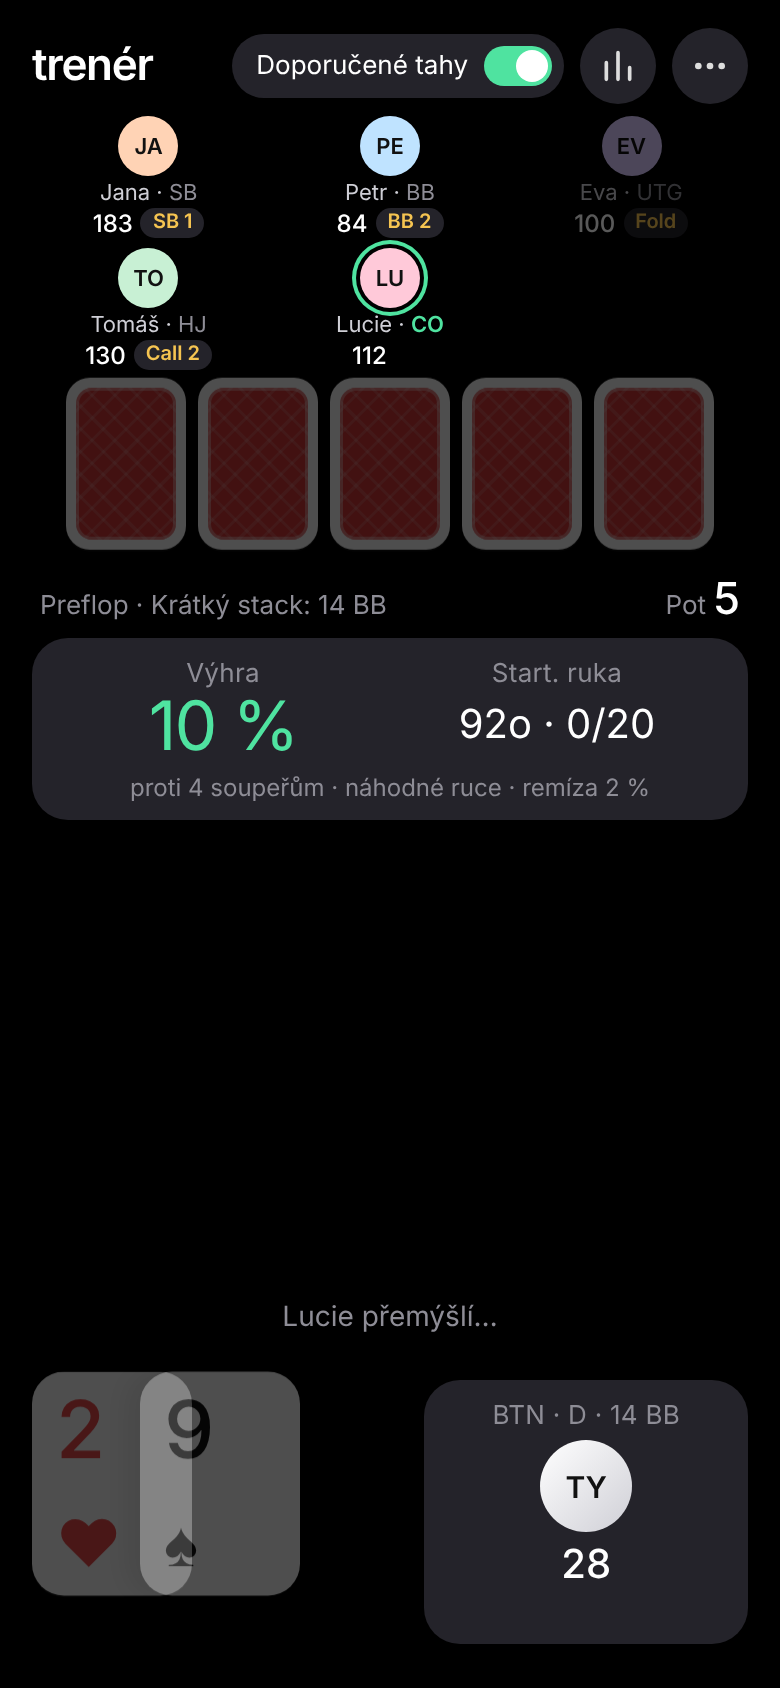
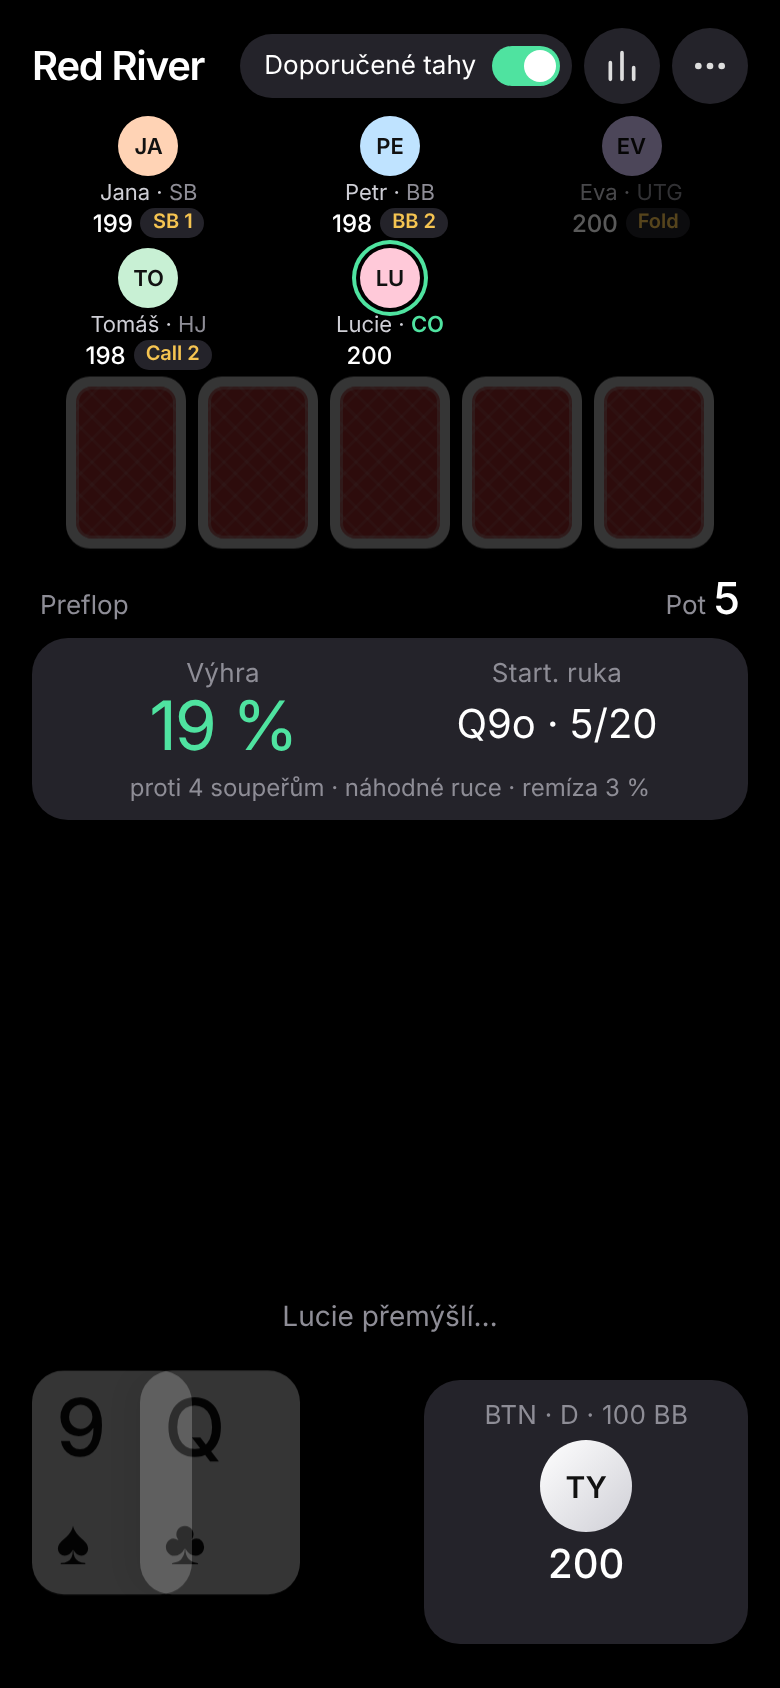
Přejmenování na Red River (manifest, titulek, hlavička, README, NAVRH), SW v6

diff --git a/index.html b/index.html
@@ -4,22 +4,22 @@
 <meta charset="utf-8">
 <meta name="viewport" content="width=device-width, initial-scale=1, viewport-fit=cover">
 <meta name="theme-color" content="#000000">
-<meta name="description" content="Poker trenér – šance na výhru, doporučené tahy a zpětná vazba.">
-<title>Poker trenér</title>
+<meta name="description" content="Red River – poker trenér: šance na výhru, doporučené tahy a zpětná vazba.">
+<title>Red River</title>
 <link rel="manifest" href="manifest.webmanifest">
 <link rel="icon" type="image/png" sizes="32x32" href="icons/favicon-32.png">
 <link rel="apple-touch-icon" href="icons/apple-touch-icon.png">
 <meta name="mobile-web-app-capable" content="yes">
 <meta name="apple-mobile-web-app-capable" content="yes">
 <meta name="apple-mobile-web-app-status-bar-style" content="black-translucent">
-<meta name="apple-mobile-web-app-title" content="Trenér">
+<meta name="apple-mobile-web-app-title" content="Red River">
 <meta name="format-detection" content="telephone=no">
 <link rel="stylesheet" href="style.css">
 </head>
 <body>
 <div class="app" id="app">
   <header class="top">
-    <div class="brand">trenér</div>
+    <div class="brand">Red River</div>
     <label class="switch-pill" title="Doporučené tahy">
       <span>Doporučené tahy</span>
       <input type="checkbox" id="recToggle"><i></i>

diff --git a/style.css b/style.css
@@ -188,3 +188,8 @@ body.many .opps.compact .opp .card.sm{margin-top:1px}
 .opps.compact .name{flex-basis:100%;text-align:center}
 .opps.compact .mini{flex-basis:100%;justify-content:center;margin-top:1px}
 .opps.compact .stk{white-space:nowrap}
+/* název „Red River“ – hlavička vždy na jeden řádek */
+.top{gap:6px}
+.brand{white-space:nowrap;font-size:20px}
+.switch-pill span{white-space:nowrap}
+@media (max-width:379px){.switch-pill span{display:none}.switch-pill{padding:6px}}

diff --git a/engine.js b/engine.js
@@ -1,4 +1,4 @@
-/* Poker trenér – herní logika (karty, vyhodnocení, equity, doporučení, boti).
+/* Red River (poker trenér) – herní logika (karty, vyhodnocení, equity, doporučení, boti).
    Funguje v prohlížeči (window.PE) i v Node (module.exports). */
 (function (root) {
   'use strict';

diff --git a/sw.js b/sw.js
@@ -1,5 +1,5 @@
 /* Service worker – offline cache. Při změně souborů zvyš VERSION. */
-const VERSION = 'v5';
+const VERSION = 'v6';
 const CACHE = 'poker-trener-' + VERSION;
 const FILES = [
   './', './index.html', './style.css', './app.js', './engine.js', './manifest.webmanifest',

diff --git a/app.js b/app.js
@@ -1,4 +1,4 @@
-/* Poker trenér – herní smyčka a UI */
+/* Red River (poker trenér) – herní smyčka a UI */
 (function () {
   'use strict';
   const $ = id => document.getElementById(id);

diff --git a/README.md b/README.md
@@ -1,6 +1,6 @@
-# Poker trenér
+# Red River
 
-Minimalistický trenér Texas Hold'em: **šance na výhru v %**, **doporučené tahy** (dají se vypnout) a **zpětná vazba** po každém rozhodnutí. Funguje jako webová aplikace, která se dá nainstalovat na telefon (PWA) a běží i offline.
+**Red River** je minimalistický trenér Texas Hold'em: **šance na výhru v %**, **doporučené tahy** (dají se vypnout) a **zpětná vazba** po každém rozhodnutí. Funguje jako webová aplikace, která se dá nainstalovat na telefon (PWA) a běží i offline.
 
 Podrobný návrh: [NAVRH.md](NAVRH.md)
 
@@ -11,7 +11,7 @@ Aplikace musí být na webu přes **https** (např. GitHub Pages: `https://<uziv
 1. Otevři adresu aplikace v **Safari**.
 2. Klepni na **Sdílet** (čtvereček se šipkou).
 3. Vyber **Přidat na plochu** → **Přidat**.
-4. Spouštěj ikonou „Trenér“ z plochy – otevře se na celou obrazovku bez lišty prohlížeče.
+4. Spouštěj ikonou „Red River“ z plochy – otevře se na celou obrazovku bez lišty prohlížeče.
 
 **Android (Chrome)**
 1. Otevři adresu aplikace v **Chrome**.

diff --git a/NAVRH.md b/NAVRH.md
@@ -1,4 +1,4 @@
-# trenér – poker trenér (Texas Hold'em)
+# Red River – poker trenér (Texas Hold'em)
 
 Návrh aplikace, která tě učí poker: ukazuje šance na výhru, radí, co zahrát (dá se vypnout), a po každém rozhodnutí vysvětlí, jestli bylo dobré a proč. Vzhled je minimalistický, inspirovaný aplikací **Offsuit**.
 
@@ -19,7 +19,7 @@ Vycházím z ověřených obrázků z App Store a webu offsuit.link (uloženo v 
 - akční tlačítka jako **tmavé pilulky** („Call 4“, „Raise 8“) + kulaté tlačítko se šipkou,
 - vlastní karty dole vlevo přes sebe, vpravo panel s rukou a stackem,
 - panel statistik „Win 71 %“ se **zeleným procentem** na tmavém panelu,
-- čisté bezpatkové písmo, malé písmo v názvu značky („offsuit“ → u nás „trenér“).
+- čisté bezpatkové písmo, malé písmo v názvu značky („offsuit“ → u nás „Red River“).
 
 Co jsem **nepřebíral**: avatary (Offsuit používá 3D postavičky – u nás iniciály v barevných kolečkách), logo, žádné jejich assety se v aplikaci nepoužívají.
 
